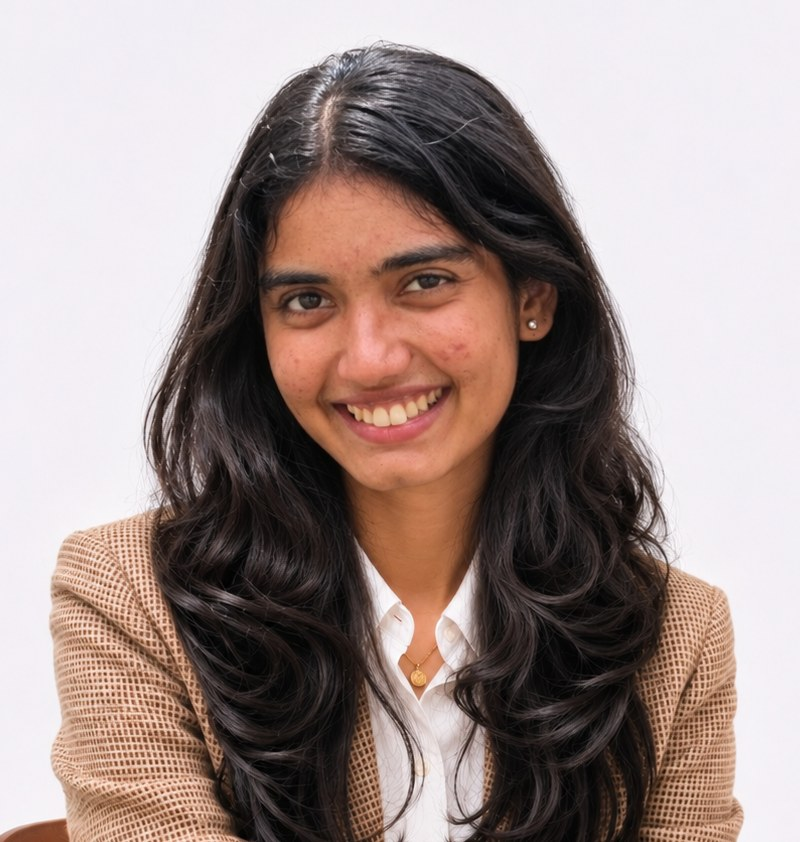
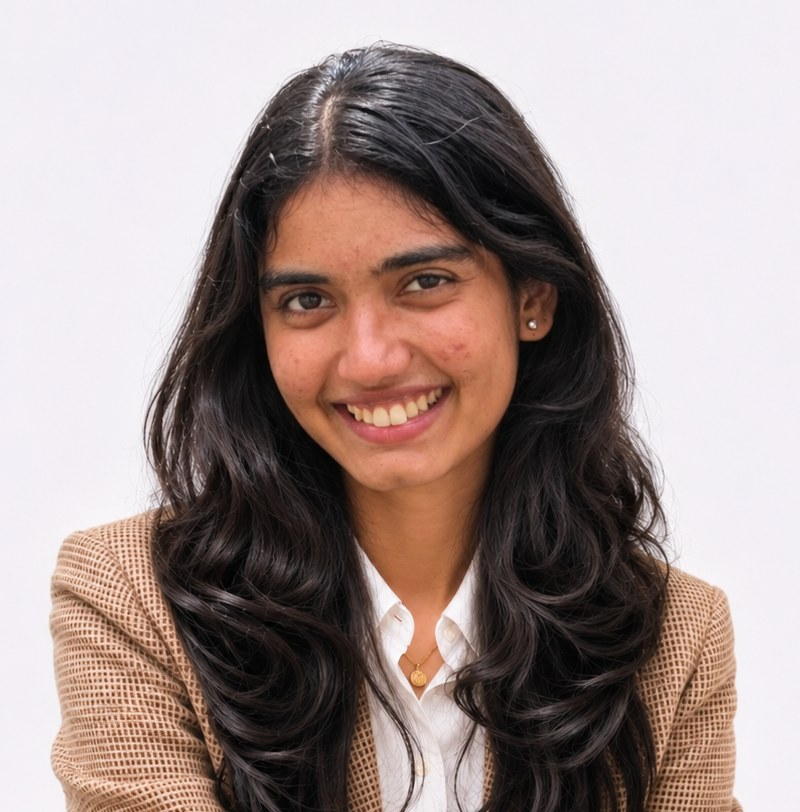
Compose badge from supplied photographic assets (layered)
- Strap, clip, acrylic shell, card, gloss are separate image layers; card content is live DOM
- Handwritten name/interests converted to transparent ink PNGs (strokes untouched)
- Labels in Inter; --bh-swing hook on .bh-hanger for a future drag/swing interaction (not implemented)

Claude-Session: https://claude.ai/code/session_01XdkNowy5XBxZxoaMtQra1b

Changed region(s): [[0.0, 0.0308, 0.9375, 1.0]]

diff --git a/app/hero-badge.css b/app/hero-badge.css
@@ -7,22 +7,30 @@
 .bh-meta-left{left:clamp(20px,3vw,32px)}
 .bh-meta-right{right:clamp(20px,3vw,32px);text-align:right}
 
-.bh-badge-wrap{position:relative;width:calc(40.55*var(--k));margin:0 auto;padding-top:calc(16.04*var(--k))}
-.bh-strap{position:absolute;left:50%;width:calc(8.9*var(--k));margin-left:calc(-4.45*var(--k));bottom:calc(100% - 7.8*var(--k));height:100vh;transform:none;background:linear-gradient(90deg,#0d0d0d,#2a2a2a 45%,#0d0d0d);}
-.bh-strap:after{content:"";position:absolute;inset:0;background:repeating-linear-gradient(0deg,transparent 0 6px,rgba(255,255,255,.035) 6px 7px)}
-.bh-clip{position:absolute;left:50%;top:calc(2.67*var(--k));width:calc(11.85*var(--k));margin-left:calc(-5.925*var(--k));height:auto;z-index:3;filter:drop-shadow(0 2px 2px rgba(0,0,0,.18))}
-.bh-holder{position:relative;margin:0;width:100%;aspect-ratio:455/680;border-radius:calc(2.4*var(--k));background:linear-gradient(135deg,rgba(255,255,255,.78),rgba(236,236,236,.55) 55%,rgba(255,255,255,.7));border:1px solid rgba(0,0,0,.09);box-shadow:inset 0 0 0 calc(.35*var(--k)) rgba(255,255,255,.7),0 calc(1.1*var(--k)) calc(2.2*var(--k)) rgba(0,0,0,.1)}
-.bh-card{container-type:inline-size;position:absolute;left:8.35%;width:84.4%;top:9.56%;aspect-ratio:384/575;background:#fff;border-radius:calc(.7*var(--k));box-shadow:0 0 0 1px rgba(0,0,0,.04)}
+/* ---- badge: photographic layers, positioned in stage units (--k) ---- */
+.bh-badge-wrap{position:relative;width:calc(48*var(--k));margin:0 auto;padding-top:calc(18*var(--k))}
+.bh-layer{display:block;max-width:none;user-select:none;-webkit-user-drag:none;pointer-events:none}
+.bh-strap{position:absolute;left:50%;width:calc(10*var(--k));height:auto;margin-left:calc(-5*var(--k));bottom:calc(100% - 8.6*var(--k));z-index:1}
+/* hanger = clip + pouch. Swing hook: set --bh-swing (deg) on .bh-hanger; pivot is the clip ring. */
+.bh-hanger{position:relative;z-index:2;transform:rotate(var(--bh-swing,0deg));transform-origin:50% calc(-12*var(--k));
+  filter:drop-shadow(0 calc(1.4*var(--k)) calc(1.6*var(--k)) rgba(30,25,20,.22)) drop-shadow(0 calc(.2*var(--k)) calc(.3*var(--k)) rgba(30,25,20,.25))}
+.bh-pouch{position:relative;width:100%;aspect-ratio:335/420}
+.bh-shell{position:absolute;inset:0;width:100%;height:100%;z-index:1}
+.bh-gloss{position:absolute;inset:0;width:100%;height:100%;z-index:3;mix-blend-mode:screen;opacity:.55}
+.bh-clip{position:absolute;z-index:4;left:31.2%;width:42%;height:auto;top:-30%;filter:drop-shadow(0 .5cqw .6cqw rgba(0,0,0,.28))}
+.bh-card{container-type:inline-size;position:absolute;z-index:2;left:18.2%;width:62.7%;top:18.8%;aspect-ratio:620/920;background:url(/images/badge/card.png) center/100% 100% no-repeat;filter:drop-shadow(0 1px 1.5px rgba(0,0,0,.3))}
 .bh-card>*{position:absolute;margin:0}
-.bh-card-title{left:7.8cqw;top:7.2cqw;font-weight:800;font-size:15.2cqw;line-height:.93;letter-spacing:-.045em}
-.bh-photo{left:19.7cqw;top:40.4cqw;width:60.7cqw;height:auto;aspect-ratio:800/842;object-fit:cover;display:block;filter:none!important}
-main .badge-hero img{filter:none!important;transition:none}
-.bh-row{left:4.9cqw;right:4.4cqw;display:flex;align-items:baseline;gap:2.6cqw;font-size:4.2cqw;line-height:1.2;white-space:nowrap}
-.bh-row b{font-weight:700}
-.bh-row span{flex:1;font-weight:400;border-bottom:.3cqw dotted rgba(0,0,0,.55);padding-bottom:1.3cqw;overflow:hidden;text-overflow:clip}
-.bh-row-1{top:110.4cqw}.bh-row-2{top:121.6cqw}
-.bh-bar{left:4.9cqw;right:4.4cqw;top:134.1cqw;height:2.6cqw;background:var(--accent)}
-.bh-acc{right:4.4cqw;top:139.6cqw;font-weight:700;font-size:4.1cqw;letter-spacing:.01em}
+.bh-card-title{left:7.8cqw;top:7.2cqw;font-weight:800;font-size:14.6cqw;line-height:.93;letter-spacing:-.045em;color:#171717}
+.bh-photo{left:19.5cqw;top:36.8cqw;width:61cqw;height:auto;aspect-ratio:800/812;object-fit:cover;display:block}
+main .badge-hero img{filter:none;transition:none}
+.bh-row{left:5.4cqw;right:5cqw;display:flex;align-items:flex-end;gap:2.4cqw;font-size:4.2cqw;line-height:1.2;white-space:nowrap;color:#171717}
+.bh-row b{font-weight:700;padding-bottom:1.2cqw}
+.bh-row span{flex:1;position:relative;border-bottom:.3cqw dotted rgba(0,0,0,.5);height:10cqw}
+.bh-row span img{position:absolute;left:1cqw;bottom:.4cqw;height:11cqw;width:auto;max-width:100%}
+.bh-row-1{top:103.6cqw}.bh-row-2{top:117cqw}
+.bh-row-2 span img{height:7.6cqw;bottom:.6cqw}
+.bh-bar{left:5.4cqw;right:5cqw;top:131.2cqw;height:2.4cqw;background:var(--accent)}
+.bh-acc{right:5cqw;top:136.4cqw;font-weight:700;font-size:3.9cqw;letter-spacing:.01em;color:#171717}
 
 /* headline: THE sits beside the lower edge of the badge, DEEPTHIKA INDEX spans the page */
 .bh-title{position:relative;z-index:1;margin:calc(-11*var(--k)) 0 0;font-weight:800;font-size:calc(var(--hs,12.05)*var(--k));line-height:.9;letter-spacing:-.06em;text-transform:uppercase;white-space:nowrap}
@@ -40,11 +48,8 @@ main .badge-hero img{filter:none!important;transition:none}
 /* mobile: badge enlarged, headline stacked on three lines, columns stacked */
 @media(max-width:700px){
   .badge-hero{padding-top:72px}
-  .badge-hero .bh-stage{--k:1.78cqw;padding-bottom:56px}
+  .badge-hero .bh-stage{--k:1.5cqw;padding-bottom:56px}
   .bh-meta{font-size:9.5px;top:16px;letter-spacing:.02em}
-  .bh-badge-wrap{padding-top:calc(23.4*var(--k))}
-  .bh-clip{top:calc(10*var(--k))}
-  .bh-strap{bottom:calc(100% - 15.1*var(--k))}
   .bh-title{margin-top:calc(2.4*var(--k));font-size:calc(10.45*var(--k));line-height:.9;letter-spacing:-.06em;white-space:normal}
   .bh-title span{display:block}
   .bh-title .t1{margin-bottom:0}

diff --git a/components/BadgeHero.tsx b/components/BadgeHero.tsx
@@ -1,33 +1,5 @@
 import { Reveal } from '@/components/Motion';
 
-/** Metal D-ring, swivel and clip that hold the badge. Pure SVG, no raster art. */
-function Clip() {
-  return (
-    <svg className="bh-clip" viewBox="0 0 140 210" aria-hidden="true" focusable="false">
-      <defs>
-        <linearGradient id="bhm" x1="0" y1="0" x2="1" y2="0">
-          <stop offset="0" stopColor="#8d9096" />
-          <stop offset=".22" stopColor="#f4f5f7" />
-          <stop offset=".5" stopColor="#b9bcc2" />
-          <stop offset=".78" stopColor="#eef0f2" />
-          <stop offset="1" stopColor="#80838a" />
-        </linearGradient>
-        <linearGradient id="bhv" x1="0" y1="0" x2="0" y2="1">
-          <stop offset="0" stopColor="#fafafa" />
-          <stop offset=".55" stopColor="#c5c8cd" />
-          <stop offset="1" stopColor="#9a9da3" />
-        </linearGradient>
-      </defs>
-      <rect x="8" y="6" width="124" height="76" rx="24" fill="none" stroke="url(#bhm)" strokeWidth="7" />
-      <rect x="48" y="74" width="44" height="44" rx="14" fill="url(#bhv)" stroke="#8a8d93" strokeWidth="1" />
-      <path d="M34 112h72a10 10 0 0 1 10 10v50a6 6 0 0 1-6 6H30a6 6 0 0 1-6-6v-50a10 10 0 0 1 10-10z" fill="url(#bhm)" stroke="#8a8d93" strokeWidth="1" />
-      <ellipse cx="70" cy="146" rx="13" ry="14" fill="url(#bhv)" stroke="#7d8087" strokeWidth="1.5" />
-      <circle cx="70" cy="146" r="4.5" fill="#6f7279" />
-      <rect x="4" y="182" width="132" height="18" rx="7" fill="url(#bhm)" stroke="#8a8d93" strokeWidth="1" />
-    </svg>
-  );
-}
-
 export default function BadgeHero() {
   return (
     <section className="badge-hero" aria-labelledby="bh-title">
@@ -35,27 +7,38 @@ export default function BadgeHero() {
         <p className="bh-meta bh-meta-left" aria-hidden="true">THE DEEPTHIKA INDEX</p>
         <p className="bh-meta bh-meta-right">A PERSONAL ARCHIVE<br />OF IDEAS, OBJECTS &amp;<br />EXPERIMENTS</p>
 
+        {/*
+          Badge layers (bottom → top), each an independent element:
+            strap   – hangs from the navigation bar
+            hanger  – group that will swing as one rigid body (pivot = clip ring, see --bh-swing in hero-badge.css)
+              pouch  – acrylic shell (shell image + card + gloss)
+              clip   – metal swivel clip, attached through the shell's slot
+        */}
         <Reveal className="bh-badge-wrap" y={20}>
-          <div className="bh-strap" aria-hidden="true" />
-          <Clip />
-          <figure className="bh-holder">
-            <div className="bh-card">
-              <p className="bh-card-title">CURATOR<br />&amp; MAKER</p>
-              <img
-                className="bh-photo"
-                src="/images/deepthika-badge.jpg"
-                width={800}
-                height={842}
-                alt="Portrait of Deepthika S, smiling, in a tweed blazer and white shirt"
-                fetchPriority="high"
-                decoding="async"
-              />
-              <p className="bh-row bh-row-1"><b>NAME</b><span>DEEPTHIKA S.</span></p>
-              <p className="bh-row bh-row-2"><b>INTERESTS</b><span>ART × DESIGN × ENGINEERING</span></p>
-              <i className="bh-bar" aria-hidden="true" />
-              <p className="bh-acc">ACCESSION NO. 001</p>
+          <img className="bh-layer bh-strap" data-layer="strap" src="/images/badge/strap.png" alt="" aria-hidden="true" width={130} height={415} decoding="async" />
+          <div className="bh-hanger" data-layer="hanger">
+            <div className="bh-pouch" data-layer="pouch">
+              <img className="bh-layer bh-shell" data-layer="shell" src="/images/badge/shell.png" alt="" aria-hidden="true" width={670} height={840} decoding="async" />
+              <div className="bh-card" data-layer="card">
+                <p className="bh-card-title">CURATOR<br />&amp; MAKER</p>
+                <img
+                  className="bh-photo"
+                  src="/images/deepthika-badge.jpg"
+                  width={800}
+                  height={812}
+                  alt="Portrait of Deepthika S, smiling, in a tweed blazer and white shirt"
+                  fetchPriority="high"
+                  decoding="async"
+                />
+                <p className="bh-row bh-row-1"><b>NAME</b><span><img src="/images/badge/handwritten-name.png" alt="DEEPTHIKA S." /></span></p>
+                <p className="bh-row bh-row-2"><b>INTERESTS</b><span><img src="/images/badge/handwritten-interests.png" alt="Art × Design × Engineering" /></span></p>
+                <i className="bh-bar" aria-hidden="true" />
+                <p className="bh-acc">ACCESSION NO. 001</p>
+              </div>
+              <img className="bh-layer bh-gloss" data-layer="gloss" src="/images/badge/shell-gloss.png" alt="" aria-hidden="true" width={670} height={840} decoding="async" />
             </div>
-          </figure>
+            <img className="bh-layer bh-clip" data-layer="clip" src="/images/badge/clip.png" alt="" aria-hidden="true" width={470} height={630} decoding="async" />
+          </div>
         </Reveal>
 
         <Reveal delay={0.12} y={24}>
